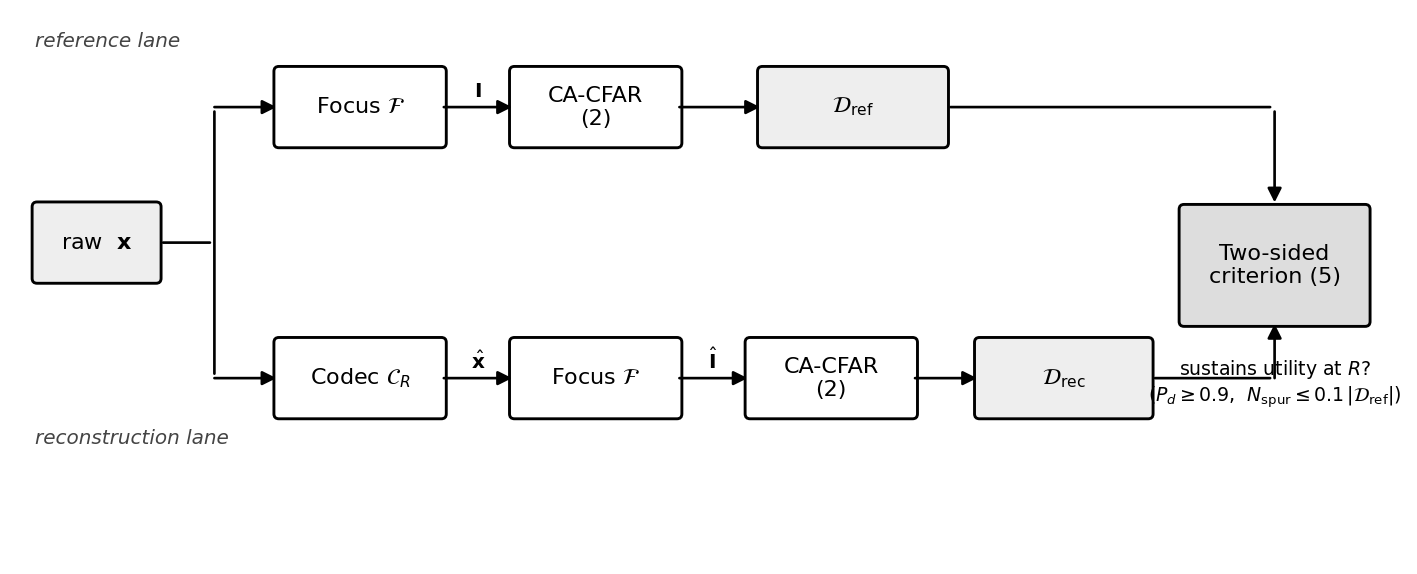
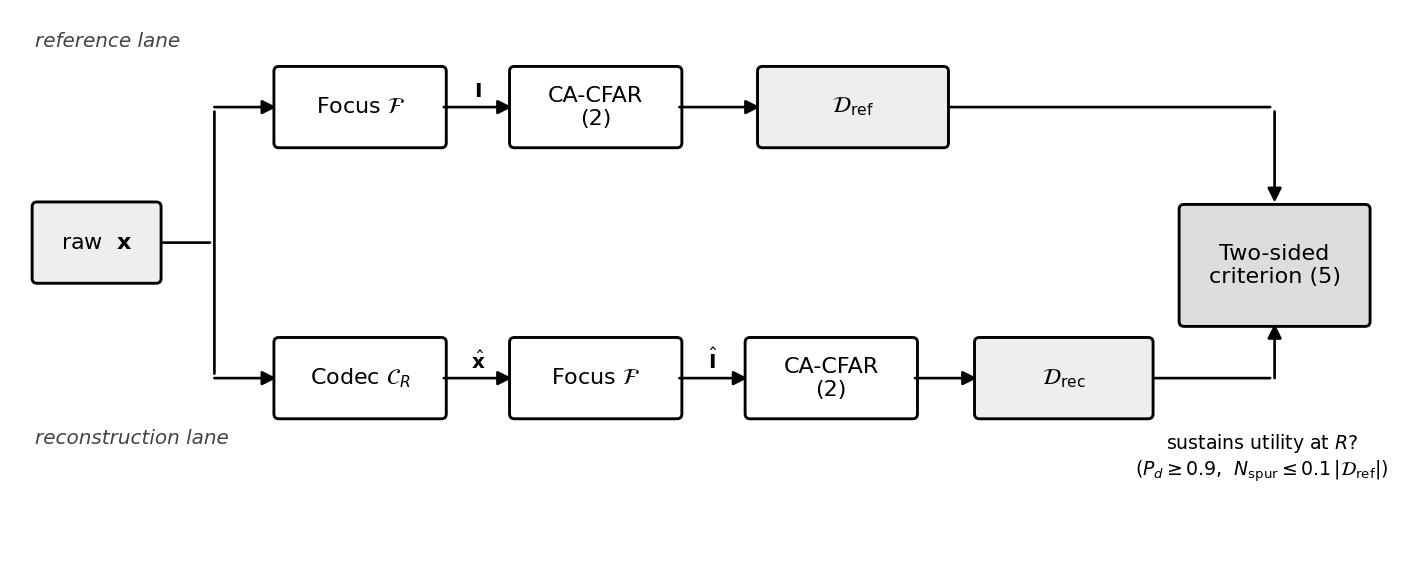
figure: move the two-sided-criterion verdict text below the D_rec feed elbow (was overlapping the arrow into the criterion box)

diff --git a/scripts/make_pipeline_figure.py b/scripts/make_pipeline_figure.py
@@ -91,7 +91,7 @@ ax.add_patch(FancyArrowPatch((9.15, yc + BH / 2), (cx + cw / 2, yc + BH / 2),
 arrow(ax, cx + cw / 2, yc + BH / 2, cx + cw / 2, cy)
 
 # verdict
-ax.text(cx + cw / 2, cy - 0.28,
+ax.text(cx + cw / 2 - 0.1, 1.02,
         r"sustains utility at $R$?" "\n" r"($P_d \geq 0.9$,  $N_\mathrm{spur} \leq 0.1\,|\mathcal{D}_\mathrm{ref}|$)",
         ha="center", va="top", fontsize=8.5)
 
